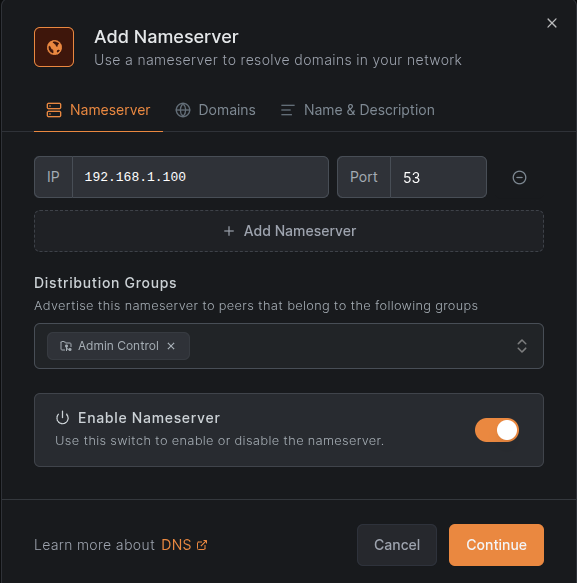
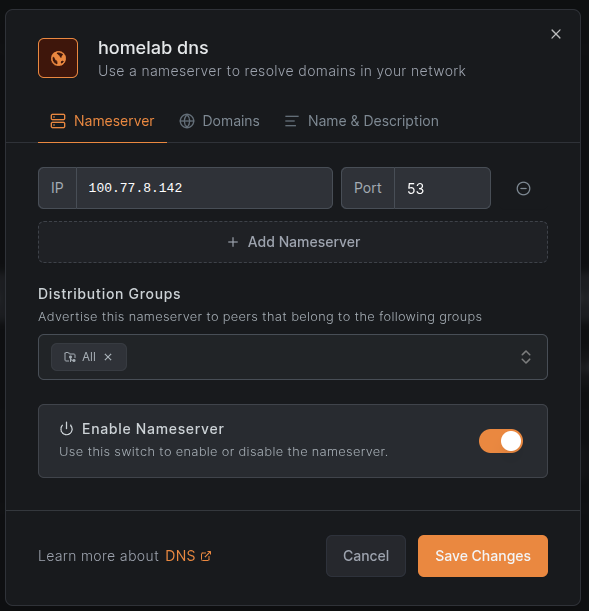
Published multiple files

diff --git a/src/site/notes/All Published Notes/Homelab/011 Dealing with DNS issues(no-internet) on new LXC.md b/src/site/notes/All Published Notes/Homelab/011 Dealing with DNS issues(no-internet) on new LXC.md
@@ -1,0 +1,85 @@
+---
+{"dg-publish":true,"permalink":"/all-published-notes/homelab/011-dealing-with-dns-issues-no-internet-on-new-lxc/"}
+---
+
+created: 2026-05-16
+updated: 2026-05-16
+
+A common problem is that Proxmox host has it's own DNS address from Netbird, the host machine's config is set to Netbird alone. Meaning any new LXC which is started may not be able to use internet unless they are also connected to netbird.
+
+```sh
+root@pve:~# cat /etc/resolv.conf
+# Generated by NetBird
+# The original file can be restored from /etc/resolv.conf.original.netbird
+
+search netbird.cloud
+nameserver 100.77.214.80
+root@pve:~# s
+```
+
+As I installed Netbird on all machine, this is not an issue for the moment, but it can lead to issues later. A simpler fix would be to set a fallback in my host so that if Netbird DNS fails, the LXCs and CTs can still reach the internet.
+
+for this, we will install `systemd-resolved` package which can be used to define a fallback for our `/etc/resolv.conf` which is configured by netbird:
+```sh
+root@pve:~# apt install systemd-resolved
+```
+
+update `/etc/systemd/resolved.conf` to add a fallback to existing setting:
+```
+FallbackDNS=1.1.1.1 8.8.8.8 9.9.9.9
+```
+
+once `/etc/systemd/resolved.conf` is updated to define the fallback, we now want to link our `/etc/resolv.conf` file to this file so that direct changes in `/etc/resolv.conf` do not impact the LXC later:
+```sh
+root@pve:~# sudo ln -rsf /run/systemd/resolve/stub-resolv.conf /etc/resolv.conf
+```
+
+This command creates a soft link from `/etc/resolv.conf` to `/etc/systemd/resolved.conf` file so anyone trying to read the source ends us reading the destination, similar to `which editor`. Now, we cannot directly edit `/etc/resolv.conf` and netbird will set the DNS setting as needed but the system also has a fallback for any LXC that does not connect to the Netbird account.
+
+```sh
+root@pve:~# ls -al /etc/systemd/resolved.conf
+-rw-r--r-- 1 root root 1567 May 16 12:36 /etc/systemd/resolved.conf
+root@pve:~# ln -rsf /run/systemd/resolve/stub-resolv.conf /etc/resolv.conf
+root@pve:~# ls -al /etc/resolv.conf
+lrwxrwxrwx 1 root root 39 May 16 13:09 /etc/resolv.conf -> ../run/systemd/resolve/stub-resolv.conf
+root@pve:~# 
+```
+
+Now, we can restart the daemons to use the updated setting:
+```sh
+root@pve:~# netbird down
+Disconnected
+root@pve:~# netbird up --allow-server-ssh --enable-ssh-root --disable-dns
+^C
+root@pve:~# systemctl restart systemd-resolved
+root@pve:~# systemctl restart netbird
+root@pve:~# netbird status
+OS: linux/amd64
+Daemon version: 0.68.3
+CLI version: 0.68.3
+Profile: default
+Management: Connected
+Signal: Connected
+Relays: 4/4 Available
+Nameservers: 1/1 Available
+FQDN: proxmox-host.netbird.cloud
+NetBird IP: 100.77.214.80/16
+Interface type: Kernel
+Quantum resistance: false
+Lazy connection: false
+SSH Server: Disabled
+Networks: -
+Peers count: 2/8 Connected
+root@pve:~# 
+```
+
+> [!Info]
+> In case the LXC still has issues connecting to internet, use the same option as host to define the fallback in the LXC.
+
+
+
+---
+
+[^1]:
+[^2]:
+

diff --git a/src/site/notes/All Published Notes/Homelab/015 Managing local DNS in my homelab.md b/src/site/notes/All Published Notes/Homelab/015 Managing local DNS in my homelab.md
@@ -3,7 +3,7 @@
 ---
 
 created: 2026-06-11
-updated: 2026-06-14
+updated: 2026-06-16
 
 #### General
 A common problem with Homelab is that I have already made 2 LXC('NAS-LXC' and 'DockerHost') with users, groups, ports and other settings that are becoming harder and harder to track without a dedicated file to track all of it.
@@ -18,6 +18,12 @@ This is made possible by **DNS**(Domain Name Server), which is a interesting top
 Now I want to create a DNS record inside my home, so my own services will remain available to me without having to write the IP address and port. This has 2 parts:
 - A DNS server that listens on port `53` (standard) and either forwards the request to another DNS or catches the request and forward it to my homelab ip to be processed (coreDns)
 - A file which defines which url goes to which ip and port (caddy)
+
+
+> [!Warning]
+> This container setup will break if we change router as the IP addresses are integral part of the setup.
+> See: [[All Published Notes/Homelab/005 Impact of Changing ISP or Routers with Proxmox based Homelab\|Impact of changing router]]
+
 
 ### Define the files and folders
 #### Create folders to hold files and data
@@ -58,7 +64,7 @@ We can use '/etc/coredns/hosts' file to define each url and the IP address (LXC'
 > [!Warning]
 > As I do not want to add new services manually in coreDNS as well as caddy file, I will write a regular expression and any and all urls in the format of 'abc.tglservice'(`tglservice`) will be forwarded to my LXC ip. This fails as your local machine may not find the homelab to give reply as fast as the backup cloudflare server(1.1.1.1), so using a hosts file is a better option.
 
-As I am using this for all communication, we will use port 53 to define redirection to the homelab. The other requests will be forwarded to `1.1.1.1` and `9.9.9.9` to be managed by those DNS services.
+As I am using this for all communication, we will use port 53 to define redirection to the homelab. The other requests will be forwarded to `1.1.1.1`(cloudflare) and `9.9.9.9`(quad9) to be managed by those DNS.
 
 the created file(`/apps/localDns/coredns/Corefile`):
 ```sh
@@ -256,11 +262,14 @@ root@DockerHost:~# find /apps/localDns -maxdepth 3 -ls
 root@DockerHost:~# 
 ```
 
-Sometimes caddy's data is unable to write due to ownership issues, so we need to use chown to ensure the user 1000 owns this folder, as the folders are from main PVE machine, we will create a new folder and give it the ownership for write access:
+Sometimes caddy's data is unable to write due to ownership issues, so we need to use chown to ensure the user `1000` owns this folder, as the folders are from main PVE machine, we will create a new folder and give it the ownership for write access:
 ```sh
 mkdir -p /appdata/localDns/caddy/data2
 chown 1000:1000 /appdata/localDns/caddy/data2
 ```
+
+If we are using `/appdata/localDns/caddy/data2` as our main 'data' folder, then you can find root certificates in '`/appdata/localDns/caddy/data2/caddy/pki/authorities/local/`' folder.
+
 ### Create the container
 
 Now, we need to create the stack for coreDns and caddy in a single docker compose or portainer stack file:
@@ -289,8 +298,8 @@ services:
     ports:
       # Listens on Port 80 across all interfaces (both LAN and Netbird)
       # This allows Caddy to catch incoming traffic no matter which network path is used
-      - "80:80"
-      - "443:443"
+      - "192.168.1.100:80:80/tcp" # http
+      - "192.168.1.100:443:443/tcp" # https
     volumes:
       # Mapped to match your actual system configuration path structure
       - /apps/localDns/caddy/config/Caddyfile:/etc/caddy/Caddyfile:ro
@@ -494,12 +503,18 @@ now, from your local machine hitting '[http://browser.tglservice](http://portain
 
 #### Defining the DNS setting in my virtual Network(over Netbird)
 
+> [!Warning]
+> The DNS through Netbird Need to update `iptables` in the LXC on which we are deploying the setup
+
+
 Open the NameServer tab(https://app.netbird.io/dns/nameservers) on left for adding this DNS. 
 Click on "Add Nameserver"
 - add IP as `100.77.8.142` which is the IP of the LXC in Netbird
 - and port as the standard port we defined in `Corefile`
 - Distribution groups are the ones who can use this DNS setting
 ![039 nameserver ip.png](/img/user/All%20Published%20Notes/Homelab/Images/039%20nameserver%20ip.png)
+
+![[039 nameserver ip.png.png\|039 nameserver ip.png.png]]
 
 Go to Domains:
 - As we only want to use this domain for `tglservice`, add that
@@ -508,15 +523,53 @@ Go to Domains:
 Name this Server:
 ![041 nameserver desc.png](/img/user/All%20Published%20Notes/Homelab/Images/041%20nameserver%20desc.png)
 
-To validate it, open a browser and type the custom url in a device which is connected to netbird and does not have any dns setting made.
+Now, when we are trying to access the system with Netbird, the request is coming on `100.77.8.142:53` but we are only listening on `192.168.1.100`.
 
+> [!Note]
+> I tried making 2 containers, but had problem with errors as netbird IP was not found in iptables which blocked the container from being created with error 500.
+
+Now, we will update `iptables` to add a rule that all requests on port *53*, *80* or *443* of `100.77.8.142:53` should be forwarded to same ports of `192.168.1.100`.
+We want all incoming (PREROUTING), outgoing(POSTROUTING) or requests made by same LXC(OUTPUT) to be directed to `192.168.1.100` without fail, so we also add rule for udp and tcp.
+
+```sh
+# 1. Intercept incoming traffic from external Netbird peers (Main PC, Phone, etc.)
+sudo iptables -t nat -A PREROUTING -d 100.77.8.142 -p tcp -m multiport --dports 53,80,443 -j DNAT --to-destination 192.168.1.100
+sudo iptables -t nat -A PREROUTING -d 100.77.8.142 -p udp -m multiport --dports 53,80,443 -j DNAT --to-destination 192.168.1.100
+
+# 2. Intercept local requests generated directly inside this specific LXC terminal loop
+sudo iptables -t nat -A OUTPUT -d 100.77.8.142 -p tcp -m multiport --dports 53,80,443 -j DNAT --to-destination 192.168.1.100
+sudo iptables -t nat -A OUTPUT -d 100.77.8.142 -p udp -m multiport --dports 53,80,443 -j DNAT --to-destination 192.168.1.100
+
+# 3. Masquerade translated traffic so the containers can find their way back through the tunnel network flawlessly
+sudo iptables -t nat -A POSTROUTING -d 192.168.1.100 -p tcp -m multiport --dports 53,80,443 -j MASQUERADE
+sudo iptables -t nat -A POSTROUTING -d 192.168.1.100 -p udp -m multiport --dports 53,80,443 -j MASQUERADE
+```
+
+
+To validate it, open a browser and type the custom url in a device which is connected to netbird and does not have any dns setting made like a phone or another device on same wifi.
+
+Connected to **same wifi**:
+- When I try to open 'http://portainer.tglservice' on my chromebook which is connected to same wifi but not connected to the netbird, there is no DNS to process it as I have not updated the `/run/systemd/resolve/stub-resolv.conf` file or updated my `nmcli connection` details.
+- When I try to open 'http://portainer.tglservice' on my chromebook which is connected to same wifi and also connected to the netbird account, I can open the link and get the admin page.
+Connected to Mobile Data:
+- when I try when connected to mobile data on phone without connecting to netbird VPN, I cannot open any page.
+- when I try when connected to mobile data on phone and also to netbird VPN, I can open the page.
 
 ### Test
 
+###### Issues
+**Issue 01**:
 The tests revealed that any url that needs `https` rather than `http` will fail, but as most of my requests only need http, i can manage the others with IP addresses.
+See Also: [[All Published Notes/Homelab/015b Trusting Caddy Certificates\|015b Trusting Caddy Certificates]] to get an idea.
 
+**Issue 02**:
+If we restart the homelab and system, and if there is an issue, sometimes the connection does not work automatically, in which case we need to flush and reconnect. 
+```sh
+sudo resolvectl flush-caches
+nmcli connection down "Auto Airtel_vidh_2470" && nmcli connection up "Auto Airtel_vidh_2470"
+```
 
-
+This problem is mostly resolved if we are also connected to netbird as it is already managing the DNS on machine, but if it is not connected, we can flush the cache and the connection will be smoothly established. 
 
 
 

diff --git a/src/site/notes/All Published Notes/Homelab/008 Save Samba share URL in devices.md b/src/site/notes/All Published Notes/Homelab/008 Save Samba share URL in devices.md
@@ -65,6 +65,9 @@ Ensure the Netbird is connected on the device where we want to use this Samba fi
 Install an app that allows to create and save SMB urls (like CX File Explorer). Add a new SMB connection with the same local cloud URL `smb://nas-lxc.netbird.cloud`, this works (the movie files cannot be streamed easily on phone which might be an issue with the format of video or device compatibility). Alternatively, we can try to use the actual IP address instead of the Netbird custom name(`smb://[phone redacted]/`) and we can still access the files.
 
 
+See Also: 
+- [[All Published Notes/Homelab/015 Managing local DNS in my homelab\|015 Managing local DNS in my homelab]]
+
 
 ---
 